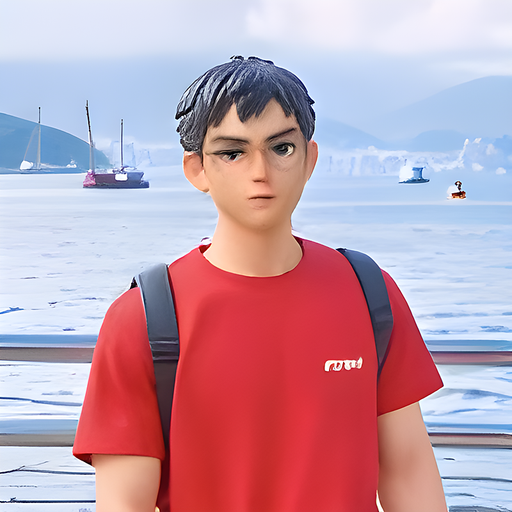
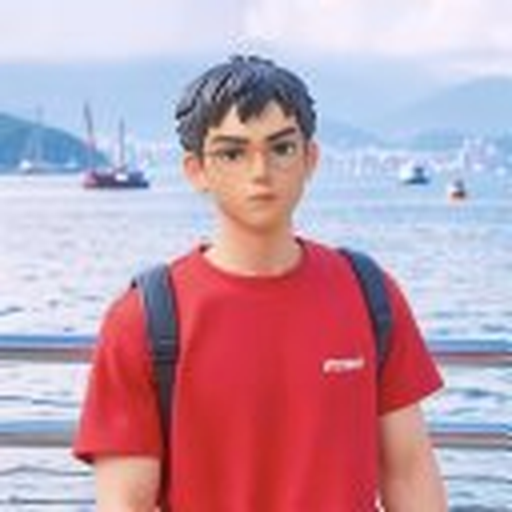
fix: Hide unmaintained profile links and use a faithful profile photo
- Remove ORCID, OpenReview, Semantic Scholar and DBLP from the contact
  card, socials and llms.txt; keep them only in Person JSON-LD sameAs
- Replace the Real-ESRGAN photo (it erased the glasses) with a
  conservative Lanczos upscale of the Scholar headshot
- Remove unpublished blog drafts from the repository

diff --git a/_pages/about.md b/_pages/about.md
@@ -339,10 +339,10 @@ redirect_from:
   .home-socials {
     --link-box: clamp(2.75rem, 14vw, 3.75rem);
     display: grid;
-    grid-template-columns: repeat(9, minmax(0, 1fr));
+    grid-template-columns: repeat(5, minmax(0, 1fr));
     align-items: start;
     gap: 0.3rem;
-    max-width: 48rem;
+    max-width: 27rem;
     margin: 1.5rem auto 0;
     padding-top: 1rem;
     border-top: 1px solid var(--global-divider-color);
@@ -405,24 +405,6 @@ redirect_from:
     width: var(--link-box);
     height: var(--link-box);
   }
-
-  .home-social-orcid .home-social-icon {
-    color: #a6ce39;
-  }
-
-  .home-social-s2 .home-social-icon {
-    color: #1857b6;
-  }
-
-  .home-social-dblp .home-social-icon {
-    color: #004f9f;
-  }
-
-  .home-social-openreview img {
-    width: calc(var(--link-box) * 0.6);
-    height: calc(var(--link-box) * 0.6);
-  }
-
   .home-social-label {
     padding: 0 0.1rem 0.4rem;
     font-size: 0.75rem;
@@ -498,13 +480,7 @@ redirect_from:
 
     .home-social-label {
       font-size: 0.7rem;
-    }
-
-    .home-socials {
-      grid-template-columns: repeat(5, minmax(0, 1fr));
-      max-width: 24rem;
-    }
-  }
+    }  }
 
   @media (prefers-reduced-motion: no-preference) {
     .home-project {
@@ -793,22 +769,6 @@ redirect_from:
       <a class="home-social-link home-social-scholar" href="https://scholar.google.com/citations?user=gjmfLroAAAAJ" aria-label="Chaofan Tao on Google Scholar">
         <span class="home-social-icon"><i class="ai ai-google-scholar" aria-hidden="true"></i></span>
         <span class="home-social-label">Scholar</span>
-      </a>
-      <a class="home-social-link home-social-orcid" href="https://orcid.org/0000-0002-6093-0854" aria-label="Chaofan Tao on ORCID">
-        <span class="home-social-icon"><i class="ai ai-orcid" aria-hidden="true"></i></span>
-        <span class="home-social-label">ORCID</span>
-      </a>
-      <a class="home-social-link home-social-openreview" href="https://openreview.net/profile?id=~Chaofan_Tao1" aria-label="Chaofan Tao on OpenReview">
-        <span class="home-social-icon"><img src="https://openreview.net/images/openreview_logo_512.png" alt="" aria-hidden="true" loading="lazy"></span>
-        <span class="home-social-label">OpenReview</span>
-      </a>
-      <a class="home-social-link home-social-s2" href="https://www.semanticscholar.org/author/Chaofan-Tao/144259094" aria-label="Chaofan Tao on Semantic Scholar">
-        <span class="home-social-icon"><i class="ai ai-semantic-scholar" aria-hidden="true"></i></span>
-        <span class="home-social-label">Semantic Scholar</span>
-      </a>
-      <a class="home-social-link home-social-dblp" href="https://dblp.org/pid/239/5831.html" aria-label="Chaofan Tao on DBLP">
-        <span class="home-social-icon"><i class="ai ai-dblp" aria-hidden="true"></i></span>
-        <span class="home-social-label">DBLP</span>
       </a>
       <a class="home-social-link home-social-hf" href="https://huggingface.co/tcftrees" aria-label="Chaofan Tao on Hugging Face">
         <span class="home-social-icon"><img src="https://huggingface.co/front/assets/huggingface_logo-noborder.svg" alt="" aria-hidden="true" loading="lazy"></span>
